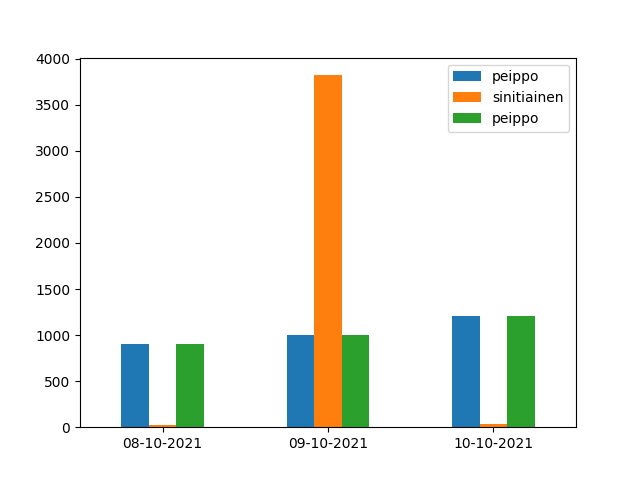
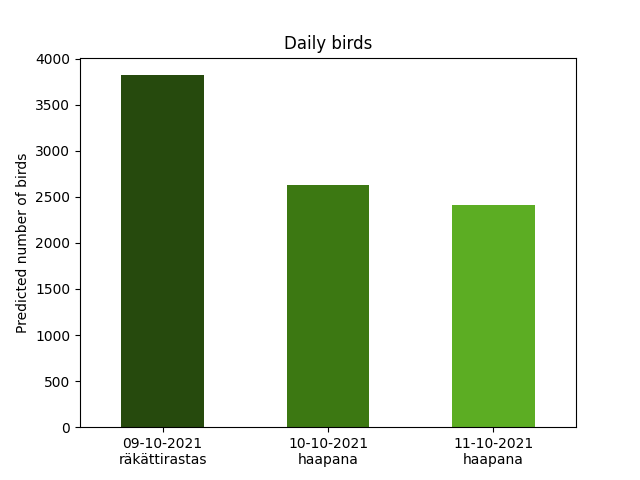
Slightly better default plot, drop-down menu #5 #6

diff --git a/templates/index.html b/templates/index.html
@@ -12,8 +12,8 @@
                 background-attachment: fixed;
             }
             .content {
-                background: rgba(185, 197, 139, 0.5);
-                max-width: 900px;
+                background: rgba(185, 197, 139, 0.6);
+                max-width: 1000px;
                 margin: auto;
                 padding: 25px;
                 overflow: hidden;
@@ -25,13 +25,13 @@
             }
 
             .float-child-left {
-                width: 30%;
+                width: 40%;
                 float: left;
                 padding: 10px;
                 margin: auto;
             } 
             .float-child-right {
-                width: 60%;
+                width: 50%;
                 float: right;
                 padding: 10px;
                 margin: auto;
@@ -42,9 +42,45 @@
                 font-family: 'Titillium Web';
                 text-align: center;
             }
-            .image {
-                padding-top: 20px
+            .dropbtn {
+            background-color: #04AA6D;
+            color: white;
+            padding: 16px;
+            font-size: 16px;
+            border: none;
             }
+
+            /* The container <div> - needed to position the dropdown content */
+            .dropdown {
+            position: relative;
+            display: inline-block;
+            }
+
+            /* Dropdown Content (Hidden by Default) */
+            .dropdown-content {
+            display: none;
+            background-color: #f1f1f1;
+            min-width: 160px;
+            box-shadow: 0px 8px 16px 0px rgba(0,0,0,0.2);
+            z-index: 1;
+            }
+
+            /* Links inside the dropdown */
+            .dropdown-content a {
+            color: black;
+            padding: 5px 12px;
+            text-decoration: none;
+            display: block;
+            }
+
+            /* Change color of dropdown links on hover */
+            .dropdown-content a:hover {background-color: #ddd;}
+
+            /* Show the dropdown menu on hover */
+            .dropdown:hover .dropdown-content {display: block;}
+
+            /* Change the background color of the dropdown button when the dropdown content is shown */
+            .dropdown:hover .dropbtn {background-color: #3e8e41;}
         </style>
     </head>
     <body>
@@ -53,26 +89,35 @@
         
             <div class="float-container">
                 <div class="float-child-left">
-                    <h4>Found predictions for the following {{bird_number}} birds:</h4>
-                    <ul>
-                        {%for bird in bird_list%}
-                        <li><a href="/{{ bird }}">{{bird}}</a></li>
-                        {%endfor%}
-                    </ul>
+                    <h4>Found predictions for {{bird_number}} birds</h4>
+                    <div class="dropdown">
+                        <button class="dropbtn">Select a bird</button>
+                        <div class="dropdown-content">
+                            {%for bird in bird_list | sort%}
+                            <a onclick="showBirdPlot()">{{bird}}</a>
+                            {%endfor%}
+                        </div>
+                      </div>
+                      <img id="bird_plot" src="../static/haapana_plot.png" width="100%" height="55%" style="display: none; margin: auto;">
                 </div>
             
                 <div class="float-child-right">
                     <div>
-                        {% block content %}
-                        <h4>Here are the ones with the biggest expected number!</h4>
-                        {{max_birds | safe}}
-                        {% endblock %}
-                    </div>
-                    <div class="image">
-                        <img src="../static/default_plot.png" width="80%" height="55%">
+                        <h4>You are most likely to see these migratory birds in the following days:</h4>
+                        <img src="../static/default_plot.png" width="100%" height="65%">
                     </div>
                 </div>
             </div>
         </div>
     </body>
+    <script>
+        function showBirdPlot() {
+            var x = document.getElementById("bird_plot");
+            if (x.style.display === "none") {
+                x.style.display = "block";
+            } else {
+                x.style.display = "none";
+            }
+        }
+    </script>
 </html>

diff --git a/main.py b/main.py
@@ -10,8 +10,9 @@ import datetime as dt
 from random_forest import predict_birds
 import matplotlib.pyplot as plt
 import seaborn as sns
+import numpy as np
 
-# Run in terminal with the command uvicorn main:app
+# Run in terminal with the command uvicorn main:app --reload
 app = FastAPI()
 templates = Jinja2Templates(directory="templates")
 predictions = predict_birds().astype(int)
@@ -22,16 +23,21 @@ app.mount("/static", StaticFiles(directory="static"), name="static")
 def generate_default_plot():
     global predictions
     global max_birds
-    dates = [x.strftime("%d-%m-%Y") for x in max_birds.index]
-    max_birds_toplot = max_birds.set_index(pd.Index(dates))
-    plot = max_birds_toplot.plot.bar(rot=0)
+    diag = pd.Series(np.diag(max_birds), index=[max_birds.index, max_birds.columns])
+    diag.index = diag.index.map(lambda t: t[0].strftime("%d-%m-%Y") + "\n" + str(t[1]))
+    plot_def = diag.plot.bar(rot=0, ylabel="Predicted number of birds", color=["#264a0d", "#3c7812", "#5cad23"], title="Daily birds")
     plt.savefig('./static/default_plot.png', transparent=True)
-    return plot
+    return plot_def
 
 
 def generate_plot(bird):
     global predictions
-
+    bird_data = predictions[bird]
+    bird_toplot = bird_data.rename(lambda x: x.strftime("%d-%m-%Y"))
+    plot_bird = bird_toplot.plot.bar(rot=0, color=["#264a0d", "#3c7812", "#5cad23"], title=bird.capitalize())
+    plt.savefig(f'./static/{bird}_plot.png', transparent=True)
+    return plot_bird
+    
 
 @app.get("/", response_class=HTMLResponse)
 async def root(request: Request):
@@ -39,6 +45,7 @@ async def root(request: Request):
     global max_birds
     bird_list = list(predictions.columns)
     birdcast = predictions.to_html()
+    generate_plot("haapana")
     generate_default_plot()
     return templates.TemplateResponse("index.html", {"request": request,
                                                      "birdcast": birdcast,
